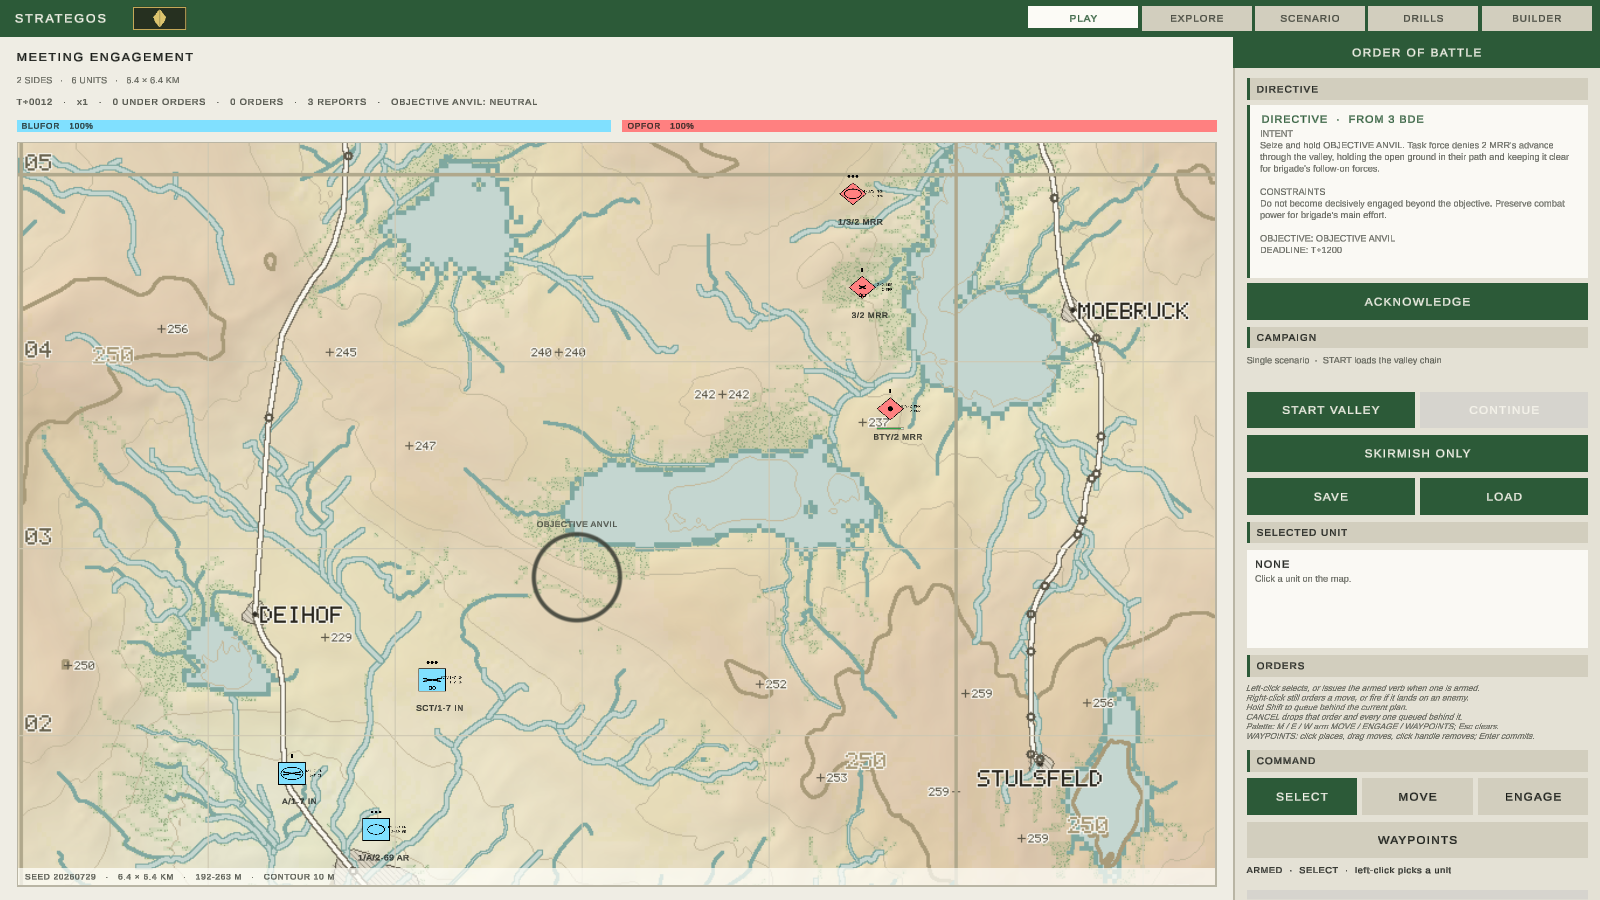
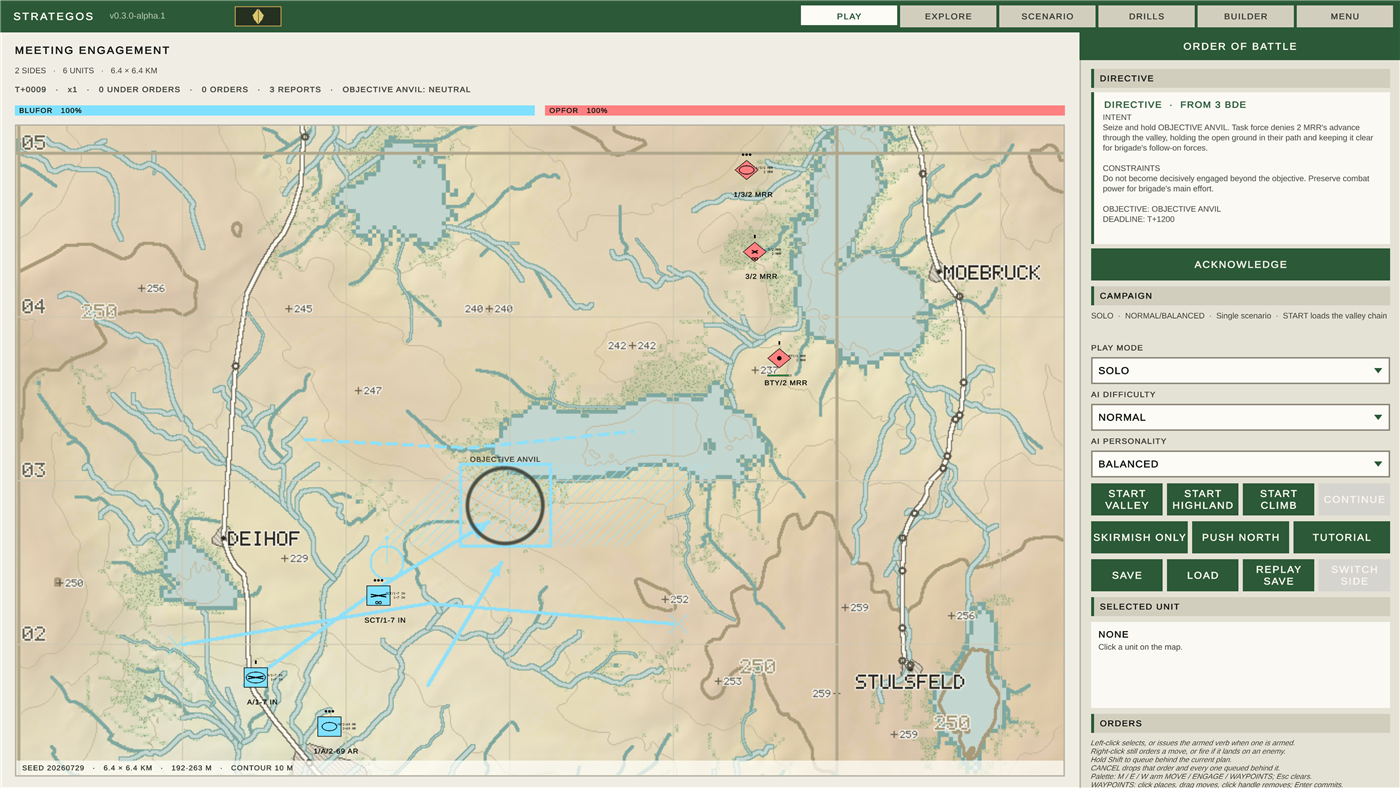
Pages: alpha screenshots + Download Windows CTA (#437)
* Refresh Pages landing with alpha screenshots and download CTA.

Replace menu/PLAY/EXPLORE captures from v0.3.0-alpha.1 and link the header and footer to the Windows release zip (#221 / #211).

* Point roadmap and concepts headers at the Windows alpha download.

---------

diff --git a/site/index.html b/site/index.html
@@ -3,20 +3,20 @@
 <head>
 <meta charset="UTF-8">
 <meta name="viewport" content="width=device-width, initial-scale=1">
-<title>Strategos — a tactical command simulation, in pre-production</title>
-<meta name="description" content="Strategos is a Unity 6 tactical command simulation built on topographic maps, NATO APP-6D symbology and multi-echelon command. Pre-production; here is what stands today.">
+<title>Strategos — playable alpha (v0.3.0-alpha.1)</title>
+<meta name="description" content="Strategos is a Unity 6 tactical command simulation on topographic maps and NATO APP-6D symbology. Download the free Windows alpha (v0.3.0-alpha.1) or browse what's built.">
 <link rel="canonical" href="https://aawadall.github.io/strategos/">
 
 <meta property="og:type" content="website">
 <meta property="og:url" content="https://aawadall.github.io/strategos/">
-<meta property="og:title" content="Strategos — a tactical command simulation, in pre-production">
-<meta property="og:description" content="Strategos is a Unity 6 tactical command simulation built on topographic maps, NATO APP-6D symbology and multi-echelon command. Pre-production; here is what stands today.">
+<meta property="og:title" content="Strategos — playable alpha (v0.3.0-alpha.1)">
+<meta property="og:description" content="Unity 6 tactical command simulation. Free Windows alpha with campaigns, combat, and NATO symbology — download from GitHub Releases.">
 <meta property="og:image" content="https://aawadall.github.io/strategos/images/play-meeting-engagement.png">
-<meta property="og:image:alt" content="The PLAY view at scenario start: topographic map with blue and red NATO APP-6D unit symbols, a directive/campaign panel, and an armed command palette in the order-of-battle rail.">
+<meta property="og:image:alt" content="PLAY view, Meeting Engagement: topographic map with blue and red NATO APP-6D units around Objective Anvil, version v0.3.0-alpha.1 in the top bar.">
 
 <meta name="twitter:card" content="summary_large_image">
-<meta name="twitter:title" content="Strategos — a tactical command simulation, in pre-production">
-<meta name="twitter:description" content="Strategos is a Unity 6 tactical command simulation built on topographic maps, NATO APP-6D symbology and multi-echelon command. Pre-production; here is what stands today.">
+<meta name="twitter:title" content="Strategos — playable alpha (v0.3.0-alpha.1)">
+<meta name="twitter:description" content="Unity 6 tactical command simulation. Free Windows alpha with campaigns, combat, and NATO symbology — download from GitHub Releases.">
 <meta name="twitter:image" content="https://aawadall.github.io/strategos/images/play-meeting-engagement.png">
 
 <link rel="stylesheet" href="style.css">
@@ -34,17 +34,18 @@
       <a class="page" href="index.html" aria-current="page">What's built</a>
       <a class="page" href="roadmap.html">Roadmap</a>
       <a class="page" href="concepts.html">Concepts</a>
-      <a class="cta" href="https://github.com/aawadall/strategos">View source on GitHub</a>
+      <a class="page" href="https://github.com/aawadall/strategos">Source</a>
+      <a class="cta" href="https://github.com/aawadall/strategos/releases/download/v0.3.0-alpha.1/Strategos-0.3.0-alpha.1-windows.zip">Download Windows alpha</a>
     </nav>
   </div>
 </header>
 
 <div class="status-strip">
   <div class="wrap">
-    <strong>Status: pre-production — playable sandbox.</strong> Phases 0–3 built; Phase 4–5 core
-    path ships, including all remaining mission-type orders and a command palette with armed
-    verbs. Phase 6 campaign play now runs inside PLAY (start, continue, mid-campaign save).
-    Unity 6 (6000.0.75f1).
+    <strong>Status: pre-production — playable sandbox.</strong>
+    <a href="https://github.com/aawadall/strategos/releases/tag/v0.3.0-alpha.1">v0.3.0-alpha.1</a>
+    Windows player is free to download. Phases 0–3 built; Phase 4–5 core path ships
+    (mission orders, armed palette); Phase 6 campaigns run from PLAY. Unity 6 (6000.0.75f1).
   </div>
 </div>
 
@@ -63,21 +64,34 @@
         finished, one is actively in progress, and most of the roadmap hasn't started. That's
         stated plainly below, section by section. See <a href="roadmap.html">what's planned</a>
         for what comes next, or <a href="concepts.html">concepts</a> for the design principles
-        the code actually follows.
+        the code actually follows. To try the sandbox yourself,
+        <a href="https://github.com/aawadall/strategos/releases/tag/v0.3.0-alpha.1">download the Windows alpha</a>
+        (unzip and run <code>Strategos.exe</code>).
       </p>
+    </section>
+
+    <section id="screenshot-menu">
+      <figure>
+        <img src="images/menu-front-door.png"
+             alt="Main menu for Strategos v0.3.0-alpha.1: two-column campaign and tools layout, OPTIONS / AUDIO / EXIT in the footer, version label in the top bar.">
+        <figcaption>
+          <span class="cap-label">MENU — front door, v0.3.0-alpha.1.</span>
+          Campaigns (Valley / Highland / Climb), skirmish and historical scenarios, Tools, and
+          a sticky footer with Options, Audio, and Exit. Captured from the tagged Windows build.
+        </figcaption>
+      </figure>
     </section>
 
     <section id="screenshot-play">
       <figure>
         <img src="images/play-meeting-engagement.png"
-             alt="The PLAY view at scenario start: a topographic map with blue and red NATO APP-6D unit symbols around Objective Anvil, a directive-and-campaign panel, and an armed command palette (SELECT / MOVE / ENGAGE, WAYPOINTS) in the order-of-battle rail on the right.">
+             alt="The PLAY view at scenario start: a topographic map with blue and red NATO APP-6D unit symbols around Objective Anvil, directive and campaign rail on the right, version v0.3.0-alpha.1 in the top bar.">
         <figcaption>
-          <span class="cap-label">PLAY, "Meeting Engagement," T+0012.</span>
+          <span class="cap-label">PLAY, "Meeting Engagement," T+0009.</span>
           Two sides on generated terrain around <em>Objective Anvil</em>. The right-hand rail
-          carries the side's directive from higher (with ACKNOWLEDGE), campaign controls
-          (start / skirmish-only / save / load), and the armed command palette that issues
-          MOVE or ENGAGE on a confirming click. Three contact reports already logged at T+0012.
-          Captured from a local build against this repository's current branch.
+          carries the directive from higher, campaign start controls, AI difficulty, and the
+          armed command palette (MOVE / ENGAGE / WAYPOINTS). Captured from
+          <a href="https://github.com/aawadall/strategos/releases/tag/v0.3.0-alpha.1">v0.3.0-alpha.1</a>.
         </figcaption>
       </figure>
     </section>
@@ -133,11 +147,14 @@
         <a href="https://github.com/aawadall/strategos/blob/master/CHANGELOG.md">CHANGELOG.md</a>.
       </p>
       <ul class="plain">
-        <li><strong>Latest</strong> — the remaining mission-type orders shipped complete (Screen,
-          Guard, Cover, Withdraw, Delay, Attack, Recon, Exploit, Pursue); campaign play now starts,
-          continues and mid-campaign-saves from inside PLAY, not only in scenario data; waypoints
-          let a march be plotted as a series of points; the command palette arms MOVE/ENGAGE from
-          a table, with left-click issuing the armed verb and keyboard shortcuts to arm it.</li>
+        <li><strong>2026-08-05 — v0.3.0-alpha.1</strong> — first
+          <a href="https://github.com/aawadall/strategos/releases/tag/v0.3.0-alpha.1">tagged GitHub Release</a>
+          with a Windows player zip; version stamped into the build and shown in the top bar;
+          front-door menu (splash, fit-height two-column layout, EXIT). Climb campaign seat ladder
+          and Steamworks stub seam also landed.</li>
+        <li><strong>Earlier</strong> — mission-type orders complete (Screen through Pursue);
+          campaign play starts / continues / mid-campaign-saves from PLAY; waypoints; armed
+          MOVE/ENGAGE palette; audio beds and procedural SFX; display prefs; tutorial first beat.</li>
         <li><strong>2026-08-03</strong> — Command-rank shoulder insignia; drill dropdown T/P/U;
           Pages OG meta and GitHub CTA; cancel/pause command fixes.</li>
         <li><strong>2026-08-02</strong> — Save/load a run; campaign chain carry-over (data);
@@ -156,7 +173,8 @@
           Every unit type against every echelon, generated by the same composer that draws
           symbols on the map: frame, fill, icon, echelon mark and modifiers, each a decorator
           layer over a data-only symbol description, baked to a sprite only at the end. See
-          <a href="concepts.html">concepts</a> for why it's built that way.
+          <a href="concepts.html">concepts</a> for why it's built that way. Captured from
+          <a href="https://github.com/aawadall/strategos/releases/tag/v0.3.0-alpha.1">v0.3.0-alpha.1</a>.
         </figcaption>
       </figure>
     </section>
@@ -185,8 +203,10 @@
   <div class="wrap">
     <p>
       <a href="https://github.com/aawadall/strategos">github.com/aawadall/strategos</a> —
-      Unity 6 (6000.0.75f1) / URP. Source is public and readable today; there is no build or
-      playable demo distributed from this page yet.
+      Unity 6 (6000.0.75f1) / URP.
+      <a href="https://github.com/aawadall/strategos/releases/download/v0.3.0-alpha.1/Strategos-0.3.0-alpha.1-windows.zip">Download the Windows alpha</a>
+      or read the
+      <a href="https://github.com/aawadall/strategos/releases/tag/v0.3.0-alpha.1">v0.3.0-alpha.1 release notes</a>.
     </p>
     <p class="license">
       Licensed under the Strategos License (MIT terms with a non-military-use restriction) —

diff --git a/site/concepts.html b/site/concepts.html
@@ -33,7 +33,8 @@
       <a class="page" href="index.html">What's built</a>
       <a class="page" href="roadmap.html">Roadmap</a>
       <a class="page" href="concepts.html" aria-current="page">Concepts</a>
-      <a class="cta" href="https://github.com/aawadall/strategos">View source on GitHub</a>
+      <a class="page" href="https://github.com/aawadall/strategos">Source</a>
+      <a class="cta" href="https://github.com/aawadall/strategos/releases/download/v0.3.0-alpha.1/Strategos-0.3.0-alpha.1-windows.zip">Download Windows alpha</a>
     </nav>
   </div>
 </header>

diff --git a/site/roadmap.html b/site/roadmap.html
@@ -33,7 +33,8 @@
       <a class="page" href="index.html">What's built</a>
       <a class="page" href="roadmap.html" aria-current="page">Roadmap</a>
       <a class="page" href="concepts.html">Concepts</a>
-      <a class="cta" href="https://github.com/aawadall/strategos">View source on GitHub</a>
+      <a class="page" href="https://github.com/aawadall/strategos">Source</a>
+      <a class="cta" href="https://github.com/aawadall/strategos/releases/download/v0.3.0-alpha.1/Strategos-0.3.0-alpha.1-windows.zip">Download Windows alpha</a>
     </nav>
   </div>
 </header>
